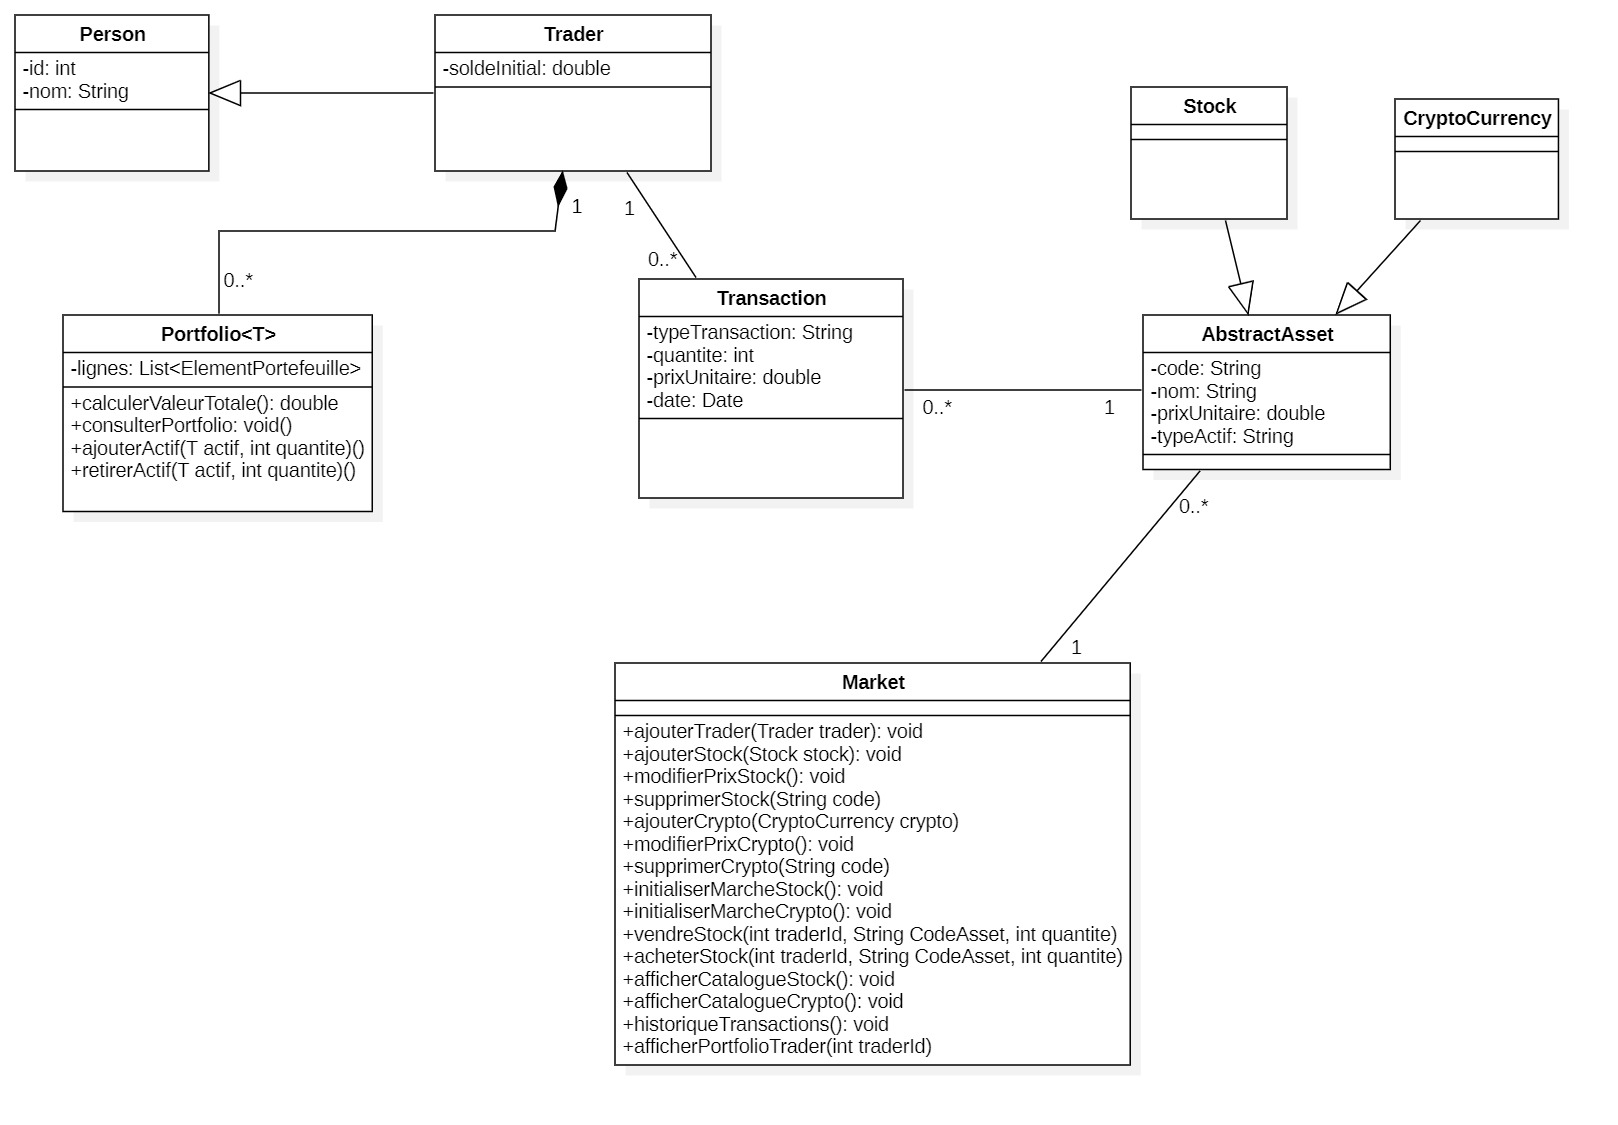
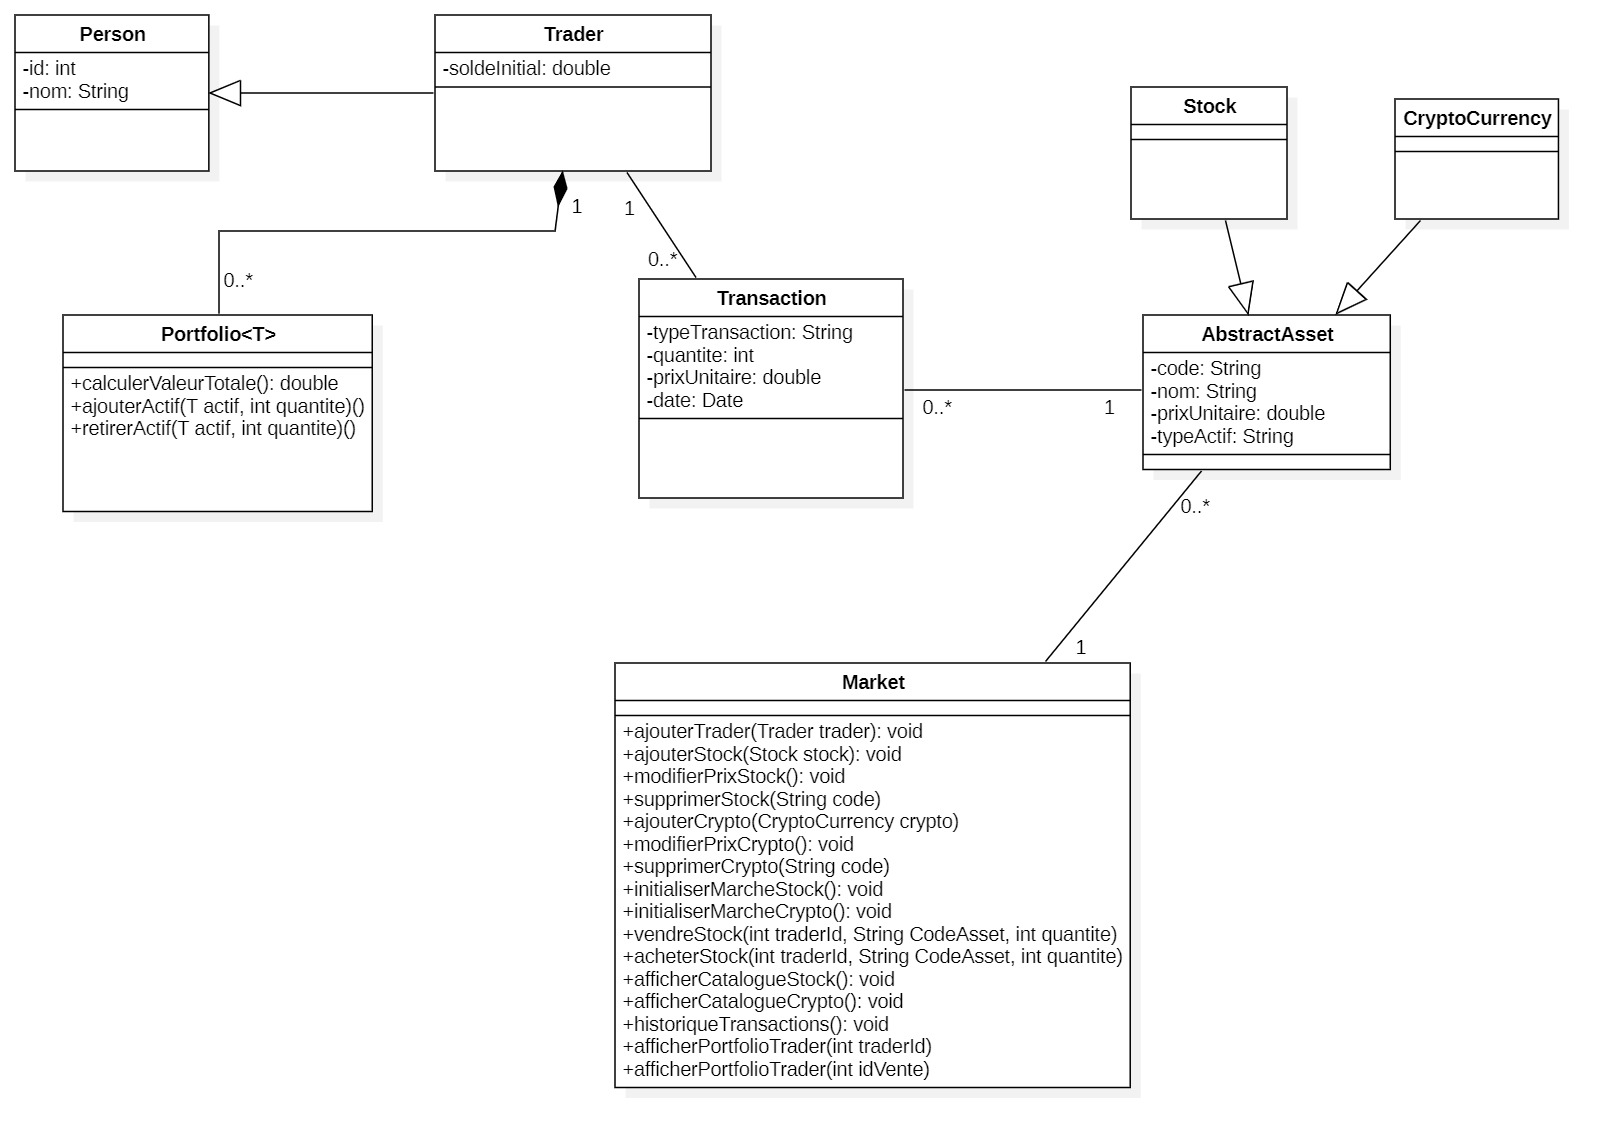
l'ajout de la méthode afficherPortfolioTrader()

diff --git a/Main/src/Market.java b/Main/src/Market.java
@@ -1,5 +1,6 @@
 import java.util.ArrayList;
 import java.util.Scanner;
+import java.util.List;
 
 public class Market {
 public ArrayList<Trader> traders;
@@ -250,8 +251,39 @@ public void initialiserMarcheCrypto(){
             }
         }
     }
+    public void afficherPortfolioTrader(int traderId) {
+        Trader trader = trouverTrader(traderId);
+
+        if (trader == null) {
+            System.out.println("Erreur : Trader avec l'ID " + traderId + " introuvable.");
+            return;
+        }
+
+        System.out.println("\n======= PORTFOLIO DE " + trader.getName().toUpperCase() + " =======");
+        System.out.println("Solde disponible : " + trader.getSoldeInitial() + " $");
+
+        Portfolio portfolio = trader.getPortfolio();
+        List<Portfolio.ElementPortefeuille> lignes = portfolio.getLignes();
+
+        if (lignes.isEmpty()) {
+            System.out.println("Votre portefeuille est actuellement vide.");
+        } else {
+            System.out.println("Actifs possédés :");
+            for (Portfolio.ElementPortefeuille ligne : lignes) {
+                Asset actif = (Asset) ligne.getActif();
+                int qte = ligne.getQuantite();
+
+                System.out.println("- [" + actif.getCode() + "] " + actif.getNom() +
+                        " | Qté: " + qte +
+                        " | Valeur Actuelle: " + actif.getPrixUnitaire() + "$ " +
+                        " | Sous-total: " + (qte * actif.getPrixUnitaire()) + "$");
+            }
+
+                System.out.println("----------------------------------------------");
+            System.out.println("VALEUR TOTALE DES ACTIFS : " + portfolio.calculerValeurTotale() + " $");            }
+            System.out.println("==============================================\n");
+        }
 
 
-    public void afficherPortfolioTrader(int idVente) {
     }
-}
+

diff --git a/Main/src/Main.java b/Main/src/Main.java
@@ -93,7 +93,6 @@ market.initialiserMarcheStock();
                                     market.modifierPrixCrypto();
                                     break;
                                 case 8:
-                                    market.initialiserMarcheCrypto();
                                     market.afficherCatalogueCrypto();
                                     System.out.println("Entrez le code du Crypto Monnaie que vous voulez supprimer: ");
                                     String code2  = s.next();
@@ -176,6 +175,11 @@ market.initialiserMarcheStock();
                                     System.out.println("Quantité : ");
                                     int qteVenteC = s.nextInt();
                                     market.vendreCrypto(idVenteC, codeVenteC, qteVenteC);
+                                    break;
+                                case 7:
+                                    System.out.println("Entrez votre ID Trader : ");
+                                    int idConsultation = s.nextInt();
+                                    market.afficherPortfolioTrader(idConsultation);
                                     break;
                                 case 0:
                                     System.out.println("Merci d'avoir utilisé X-Trade. Au revoir!");

diff --git a/Main/src/Person.java b/Main/src/Person.java
@@ -2,7 +2,7 @@ public class Person {
     private int id;
     private String name;
 
-    public Person (int id, String nom){
+    public Person (int id, String name){
         this.id= id;
         this.name= name;
     }

diff --git a/Main/src/Portfolio.java b/Main/src/Portfolio.java
@@ -69,4 +69,5 @@ public class Portfolio<T extends Asset> {
         public int getQuantite() { return quantite; }
         public void setQuantite(int quantite) { this.quantite = quantite; }
     }
+
 }

diff --git a/Main/src/Trader.java b/Main/src/Trader.java
@@ -23,4 +23,5 @@ public Trader(int id, String nom, double soldeInitial){
     public void setPortfolio(Portfolio portfolio) {
         this.portfolio = portfolio;
     }
+
 }
